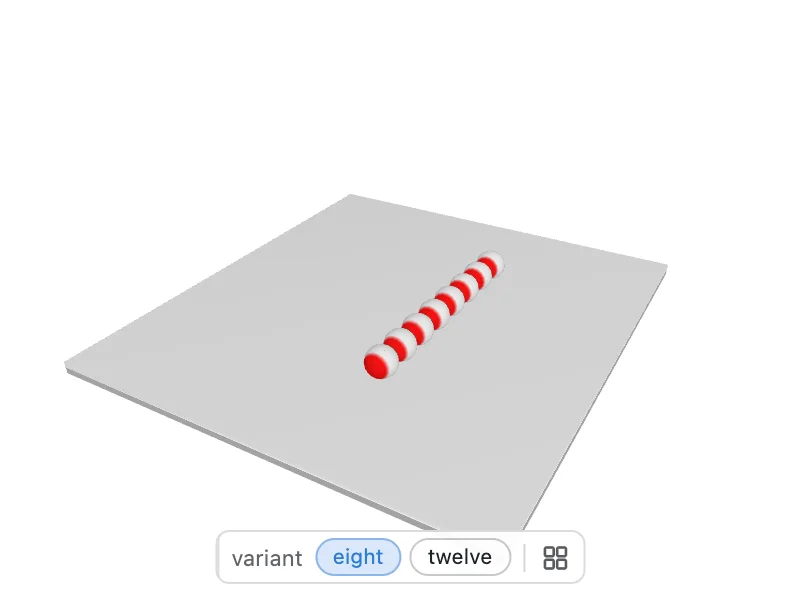
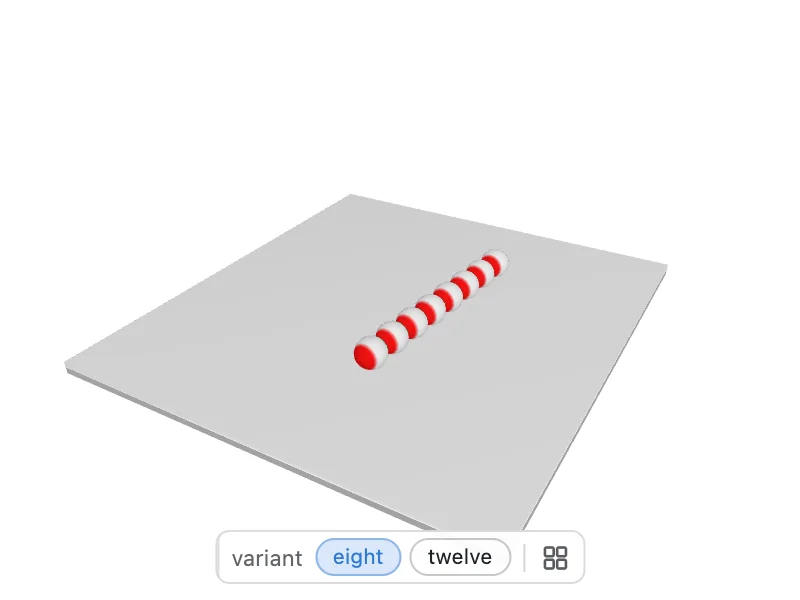
Let magnet balls go 1.5x faster
A run is ten thousand steps of a few balls, so a step costs numpy's
per-call overhead: a plain cross product, norm and quaternion product
take the place of numpy's general ones, and the step is a third longer,
some eleven per bounce. At twice the step a run ended otherwise than at
every finer one; at this one it does not. The gallery's first open goes
from 9.4 to 6.0 s, a notebook run of eight balls from 3.4 to 2.4 s, and
both gallery runs end as before. The notebook says that which shape one
seed makes is chaotic, while what it makes is not.

Changed region(s): [[0.4375, 0.42, 0.625, 0.63]]

diff --git a/magpylib_studio/examples/magnet_balls.py b/magpylib_studio/examples/magnet_balls.py
@@ -40,10 +40,32 @@ class Run:
     magnetic: np.ndarray  # (f,)
 
 
+# A run is some ten thousand steps of a few balls each, so what a step costs
+# is numpy's per-call overhead, not arithmetic: these three do in plain
+# indexing what np.cross, np.linalg.norm and np.moveaxis do in general.
+
+
+def _cross(a, b):
+    """Cross products of vectors (..., 3)."""
+    return np.stack(
+        [
+            a[..., 1] * b[..., 2] - a[..., 2] * b[..., 1],
+            a[..., 2] * b[..., 0] - a[..., 0] * b[..., 2],
+            a[..., 0] * b[..., 1] - a[..., 1] * b[..., 0],
+        ],
+        axis=-1,
+    )
+
+
+def _norm(a):
+    """Lengths of vectors (..., 3)."""
+    return np.sqrt(np.sum(a * a, axis=-1))
+
+
 def _qmul(a, b):
     """Hamilton products of quaternions (..., 4) written (w, x, y, z)."""
-    w1, x1, y1, z1 = np.moveaxis(a, -1, 0)
-    w2, x2, y2, z2 = np.moveaxis(b, -1, 0)
+    w1, x1, y1, z1 = a[..., 0], a[..., 1], a[..., 2], a[..., 3]
+    w2, x2, y2, z2 = b[..., 0], b[..., 1], b[..., 2], b[..., 3]
     return np.stack(
         [
             w1 * w2 - x1 * x2 - y1 * y2 - z1 * z2,
@@ -58,8 +80,8 @@ def _qmul(a, b):
 def _turned(q, v):
     """`v` turned by the unit quaternions `q` (w, x, y, z)."""
     w, xyz = q[..., :1], q[..., 1:]
-    t = 2 * np.cross(xyz, v)
-    return v + w * t + np.cross(xyz, t)
+    t = 2 * _cross(xyz, v)
+    return v + w * t + _cross(xyz, t)
 
 
 def pull(positions, moments):
@@ -72,7 +94,7 @@ def pull(positions, moments):
     `getFT` gives, which the tests check -- and quick enough to call at every
     step of a run."""
     r = positions[None, :, :] - positions[:, None, :]  # r[i, j]: from i to j
-    d = np.linalg.norm(r, axis=-1)
+    d = _norm(r)
     np.fill_diagonal(d, np.inf)
     n = r / d[..., None]
     mi, mj = moments[:, None, :], moments[None, :, :]
@@ -86,7 +108,7 @@ def pull(positions, moments):
         * (mi * mj_n + mj * mi_n + n * mi_mj - 5 * n * mi_n * mj_n)
     )
     field = np.sum(MU0 / (4 * np.pi * d[..., None] ** 3) * (3 * n * mi_n - mi), axis=0)
-    return np.sum(on_j, axis=0), np.cross(moments, field), field
+    return np.sum(on_j, axis=0), _cross(moments, field), field
 
 
 def let_go(
@@ -121,11 +143,13 @@ def let_go(
     stiffness = 6e4  # N/m: sunk 0.07 mm under the 4 N two balls pull with
     log_e = np.log(restitution)
     damping = -2 * log_e * np.sqrt(stiffness * mass / 2) / np.hypot(np.pi, log_e)
-    dt = 0.15 * np.sqrt(mass / stiffness)
+    # some eleven steps across the time two balls are in a bounce: at seven
+    # (0.3), a run ends otherwise than at every finer step
+    dt = 0.2 * np.sqrt(mass / stiffness)
 
     # each ball's turn from +z to its pole, as a quaternion (w, x, y, z)
     z = np.array([0.0, 0.0, 1.0])
-    axis = np.cross(z, u)
+    axis = _cross(z, u)
     sin = np.linalg.norm(axis, axis=1)
     half = np.arctan2(sin, u @ z) / 2
     axis = np.where(
@@ -145,7 +169,7 @@ def let_go(
         force, torque, field = pull(x, m)
         # balls on balls
         r = x[None, :, :] - x[:, None, :]
-        d = np.linalg.norm(r, axis=-1)
+        d = _norm(r)
         np.fill_diagonal(d, np.inf)
         i, j = np.nonzero(np.triu(d < DIAMETER, 1))
         if len(i):
@@ -153,13 +177,13 @@ def let_go(
             dv = v[j] - v[i]
             vn = np.sum(dv * n, -1)
             fn = np.maximum(stiffness * (DIAMETER - d[i, j]) - damping * vn, 0)
-            slip = dv - vn[:, None] * n - np.cross(w[i] + w[j], n) * radius
+            slip = dv - vn[:, None] * n - _cross(w[i] + w[j], n) * radius
             ft = _friction(slip, friction * fn, mass / 4 / dt)
             on_j = fn[:, None] * n + ft
             np.add.at(force, j, on_j)
             np.add.at(force, i, -on_j)
-            np.add.at(torque, j, np.cross(-radius * n, ft))
-            np.add.at(torque, i, np.cross(radius * n, -ft))
+            np.add.at(torque, j, _cross(-radius * n, ft))
+            np.add.at(torque, i, _cross(radius * n, -ft))
             roll = w[j] - w[i]
             resist = _rolling(roll, rolling * fn * radius)
             np.add.at(torque, j, resist)
@@ -169,12 +193,12 @@ def let_go(
         on = x[:, 2] < radius
         if np.any(on):
             fn = np.maximum(stiffness * (radius - x[on, 2]) - damping * v[on, 2], 0)
-            slip = v[on] + np.cross(w[on], down)
+            slip = v[on] + _cross(w[on], down)
             slip[:, 2] = 0
             ft = _friction(slip, friction * fn, mass / 2 / dt)
             force[on, 2] += fn
             force[on] += ft
-            torque[on] += np.cross(down, ft) + _rolling(w[on], rolling * fn * radius)
+            torque[on] += _cross(down, ft) + _rolling(w[on], rolling * fn * radius)
         if step == sample[at]:
             record["times"].append(step * dt)
             record["positions"].append(_just_touching(x))
@@ -187,13 +211,13 @@ def let_go(
         v += force / mass * dt
         w += torque / inertia * dt
         x += v * dt
-        angle = np.linalg.norm(w, axis=1) * dt
+        angle = _norm(w) * dt
         spin = w * dt / np.maximum(angle, 1e-300)[:, None]
         dq = np.concatenate(
             [np.cos(angle / 2)[:, None], np.sin(angle / 2)[:, None] * spin], axis=1
         )
         q = _qmul(dq, q)
-        q /= np.linalg.norm(q, axis=1, keepdims=True)
+        q /= np.sqrt(np.sum(q * q, axis=1))[:, None]
     return Run(**{key: np.array(value) for key, value in record.items()})
 
 
@@ -201,7 +225,7 @@ def _friction(slip, most, stop):
     """Friction against `slip` (k, 3): at most `most` (Coulomb), and no more
     than stops it in one step (`stop` times its speed), so a ball at rest
     stays put rather than jittering."""
-    speed = np.linalg.norm(slip, axis=-1)
+    speed = _norm(slip)
     size = np.minimum(most, stop * speed)
     return -size[:, None] * slip / np.maximum(speed, 1e-12)[:, None]
 
@@ -209,7 +233,7 @@ def _friction(slip, most, stop):
 def _rolling(spin, most):
     """Rolling resistance against `spin` (k, 3), at most `most`, smoothed
     near rest."""
-    return -most[:, None] * spin / (np.linalg.norm(spin, axis=-1, keepdims=True) + 1e-2)
+    return -most[:, None] * spin / (_norm(spin)[:, None] + 1e-2)
 
 
 def _just_touching(x, rounds=500):
@@ -224,7 +248,7 @@ def _just_touching(x, rounds=500):
         low = x[:, 2] < radius + gap
         x[low, 2] = radius + 2 * gap
         r = x[None, :, :] - x[:, None, :]
-        d = np.linalg.norm(r, axis=-1)
+        d = _norm(r)
         np.fill_diagonal(d, np.inf)
         i, j = np.nonzero(np.triu(d < DIAMETER + gap, 1))
         if not len(i) and not np.any(low):
@@ -265,7 +289,8 @@ def scattered(count=8, seed=0, spread=0.03):
 
 #: What decides a run: the simulation and the start, as this module wrote
 #: them.
-_DECIDING = (_qmul, _turned, pull, let_go, _friction, _rolling, _just_touching)
+_DECIDING = (_cross, _norm, _qmul, _turned, pull, let_go, _friction, _rolling)
+_DECIDING += (_just_touching,)
 _DECIDING += (scattered,)
 
 

diff --git a/docs/notebooks/magnet_balls.py b/docs/notebooks/magnet_balls.py
@@ -213,6 +213,12 @@ def _(friction, mb, mo, np):
     a clump, and now and then a ball snapping on knocks another loose,
     which rolls off: knocked, not pushed.
 
+    Which shape one seed makes turns on a hair: a little more friction, or
+    a finer step of the simulation, and the same balls can end as a chain
+    of seven and a ball alone rather than a chain of eight. What does not
+    change is the story -- chains, now and then a clump or a ring, and no
+    ball pushed away.
+
     Turn the friction down and the reach grows: the push beats the grip
     from farther off, before a ball has turned, and the balls slide into
     each other harder -- at 0.05 some seeds end in pieces. Turn it up and
